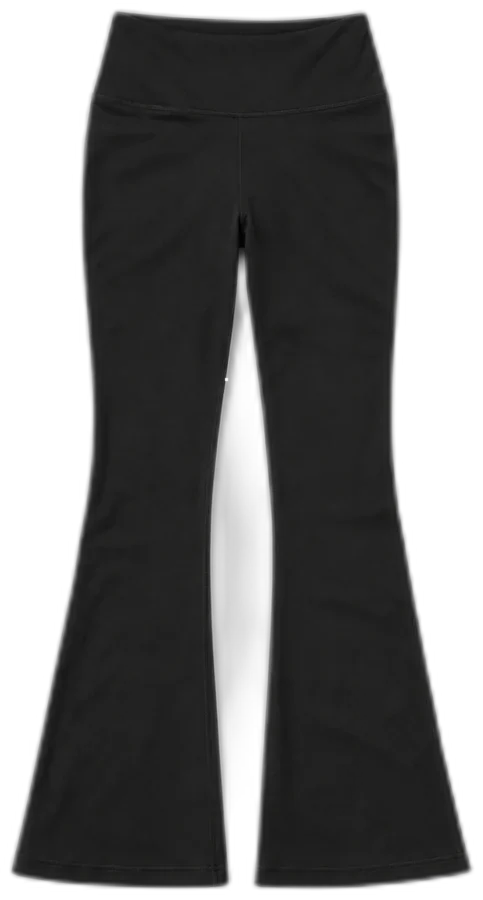
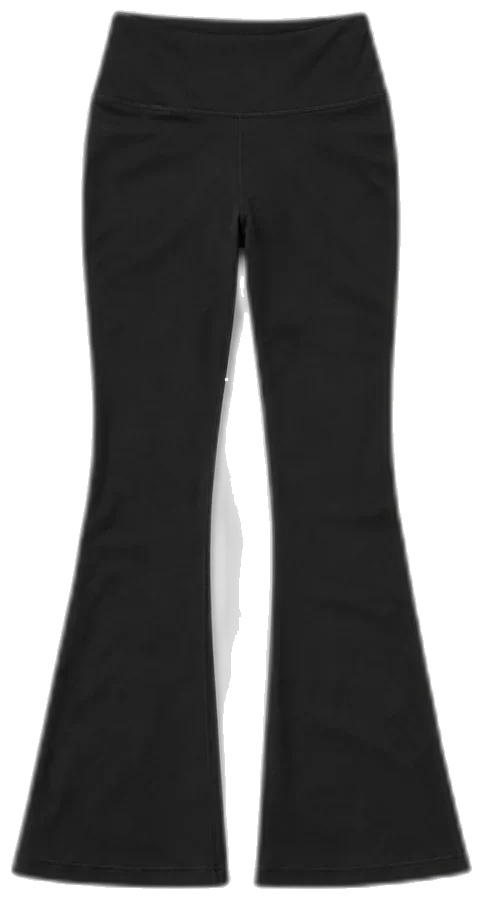
Add realistic photos for 20 shoes, bags and sunglasses; clean three cut-outs
The inside of the bag straps and the gap between the leggings legs are now
transparent.

Claude-Session: https://claude.ai/code/session_015s7cV9Lso54BtTxnSE6zQs

Changed region(s): [[0.4658, 0.56, 0.528, 0.7778], [0.4658, 0.4667, 0.4969, 0.56], [0.4969, 0.3111, 0.528, 0.3422]]

diff --git a/index.html b/index.html
@@ -911,6 +911,8 @@ const PHOTOS = {
   'black-ankle-boots': 'images/capi/black-ankle-boots.webp',
   'black-bike-shorts': 'images/capi/black-bike-shorts.webp',
   'black-blazer': 'images/capi/black-blazer.webp',
+  'black-combat-boots': 'images/capi/black-combat-boots.webp',
+  'black-crossbody-bag': 'images/capi/black-crossbody-bag.webp',
   'black-fitted-top': 'images/capi/black-fitted-top.webp',
   'black-flare-leggings': 'images/capi/black-flare-leggings.webp',
   'black-heels': 'images/capi/black-heels.webp',
@@ -918,12 +920,17 @@ const PHOTOS = {
   'black-leather-jacket': 'images/capi/black-leather-jacket.webp',
   'black-loafers': 'images/capi/black-loafers.webp',
   'black-long-sleeve-top': 'images/capi/black-long-sleeve-top.webp',
+  'black-mary-janes': 'images/capi/black-mary-janes.webp',
   'black-midi-skirt': 'images/capi/black-midi-skirt.webp',
   'black-puffer-jacket': 'images/capi/black-puffer-jacket.webp',
+  'black-quilted-bag': 'images/capi/black-quilted-bag.webp',
   'black-satin-shirt': 'images/capi/black-satin-shirt.webp',
+  'black-shoulder-bag': 'images/capi/black-shoulder-bag.webp',
   'black-skinny-jeans': 'images/capi/black-skinny-jeans.webp',
+  'black-sunglasses': 'images/capi/black-sunglasses.webp',
   'black-tailored-shorts': 'images/capi/black-tailored-shorts.webp',
   'black-tailored-trousers': 'images/capi/black-tailored-trousers.webp',
+  'black-tote': 'images/capi/black-tote.webp',
   'black-tshirt': 'images/capi/black-tshirt.webp',
   'black-turtleneck': 'images/capi/black-turtleneck.webp',
   'black-wide-leg-jumpsuit': 'images/capi/black-wide-leg-jumpsuit.webp',
@@ -936,13 +943,16 @@ const PHOTOS = {
   'brown-knee-boots': 'images/capi/brown-knee-boots.webp',
   'brown-loafers': 'images/capi/brown-loafers.webp',
   'brown-plaid-midi-skirt': 'images/capi/brown-plaid-midi-skirt.webp',
+  'brown-satchel': 'images/capi/brown-satchel.webp',
   'brown-shirt-dress': 'images/capi/brown-shirt-dress.webp',
   'brown-suede-jacket': 'images/capi/brown-suede-jacket.webp',
   'brown-tweed-blazer': 'images/capi/brown-tweed-blazer.webp',
   'burgundy-dress': 'images/capi/burgundy-dress.webp',
   'burgundy-sweater': 'images/capi/burgundy-sweater.webp',
   'camel-coat': 'images/capi/camel-coat.webp',
+  'camel-tote': 'images/capi/camel-tote.webp',
   'camel-turtleneck': 'images/capi/camel-turtleneck.webp',
+  'cat-eye-sunglasses': 'images/capi/cat-eye-sunglasses.webp',
   'champagne-satin-cami': 'images/capi/champagne-satin-cami.webp',
   'champagne-satin-skirt': 'images/capi/champagne-satin-skirt.webp',
   'cream-cable-vest': 'images/capi/cream-cable-vest.webp',
@@ -952,6 +962,7 @@ const PHOTOS = {
   'cream-linen-trousers': 'images/capi/cream-linen-trousers.webp',
   'cream-peter-pan-blouse': 'images/capi/cream-peter-pan-blouse.webp',
   'cream-silk-blouse': 'images/capi/cream-silk-blouse.webp',
+  'cream-slingbacks': 'images/capi/cream-slingbacks.webp',
   'cream-teddy-coat': 'images/capi/cream-teddy-coat.webp',
   'cream-tweed-jacket': 'images/capi/cream-tweed-jacket.webp',
   'dark-flared-jeans': 'images/capi/dark-flared-jeans.webp',
@@ -959,6 +970,9 @@ const PHOTOS = {
   'denim-mini-skirt': 'images/capi/denim-mini-skirt.webp',
   'denim-shirt': 'images/capi/denim-shirt.webp',
   'denim-shorts': 'images/capi/denim-shorts.webp',
+  'gold-clutch': 'images/capi/gold-clutch.webp',
+  'gold-hoops': 'images/capi/gold-hoops.webp',
+  'gold-strappy-sandals': 'images/capi/gold-strappy-sandals.webp',
   'grey-hoodie': 'images/capi/grey-hoodie.webp',
   'grey-joggers': 'images/capi/grey-joggers.webp',
   'grey-oversized-blazer': 'images/capi/grey-oversized-blazer.webp',
@@ -984,23 +998,35 @@ const PHOTOS = {
   'olive-bomber-jacket': 'images/capi/olive-bomber-jacket.webp',
   'olive-trousers': 'images/capi/olive-trousers.webp',
   'olive-utility-jumpsuit': 'images/capi/olive-utility-jumpsuit.webp',
+  'pearl-earrings': 'images/capi/pearl-earrings.webp',
+  'pearl-necklace': 'images/capi/pearl-necklace.webp',
   'pink-baby-tee': 'images/capi/pink-baby-tee.webp',
+  'pink-baguette-bag': 'images/capi/pink-baguette-bag.webp',
+  'pink-ballet-flats': 'images/capi/pink-ballet-flats.webp',
   'pink-corset-top': 'images/capi/pink-corset-top.webp',
   'pink-cropped-cardigan': 'images/capi/pink-cropped-cardigan.webp',
   'pink-floral-mini-dress': 'images/capi/pink-floral-mini-dress.webp',
   'pink-knit': 'images/capi/pink-knit.webp',
   'pink-puff-sleeve-blouse': 'images/capi/pink-puff-sleeve-blouse.webp',
   'pink-ruffle-mini-skirt': 'images/capi/pink-ruffle-mini-skirt.webp',
+  'pink-tinted-sunglasses': 'images/capi/pink-tinted-sunglasses.webp',
   'red-gingham-dress': 'images/capi/red-gingham-dress.webp',
   'red-plaid-shirt': 'images/capi/red-plaid-shirt.webp',
   'red-satin-slip-dress': 'images/capi/red-satin-slip-dress.webp',
+  'retro-running-sneakers': 'images/capi/retro-running-sneakers.webp',
   'rust-tiered-maxi-skirt': 'images/capi/rust-tiered-maxi-skirt.webp',
   'sage-midi-dress': 'images/capi/sage-midi-dress.webp',
   'straight-jeans': 'images/capi/straight-jeans.webp',
+  'straw-basket-bag': 'images/capi/straw-basket-bag.webp',
   'striped-tshirt': 'images/capi/striped-tshirt.webp',
+  'tan-flat-sandals': 'images/capi/tan-flat-sandals.webp',
+  'tan-shoulder-bag': 'images/capi/tan-shoulder-bag.webp',
+  'tortoiseshell-glasses': 'images/capi/tortoiseshell-glasses.webp',
   'white-crop-top': 'images/capi/white-crop-top.webp',
   'white-linen-jumpsuit': 'images/capi/white-linen-jumpsuit.webp',
+  'white-linen-shorts': 'images/capi/white-linen-shorts.webp',
   'white-off-shoulder-top': 'images/capi/white-off-shoulder-top.webp',
+  'white-platform-sneakers': 'images/capi/white-platform-sneakers.webp',
   'white-polo-shirt': 'images/capi/white-polo-shirt.webp',
   'white-ruffle-blouse': 'images/capi/white-ruffle-blouse.webp',
   'white-shirt': 'images/capi/white-shirt.webp',
